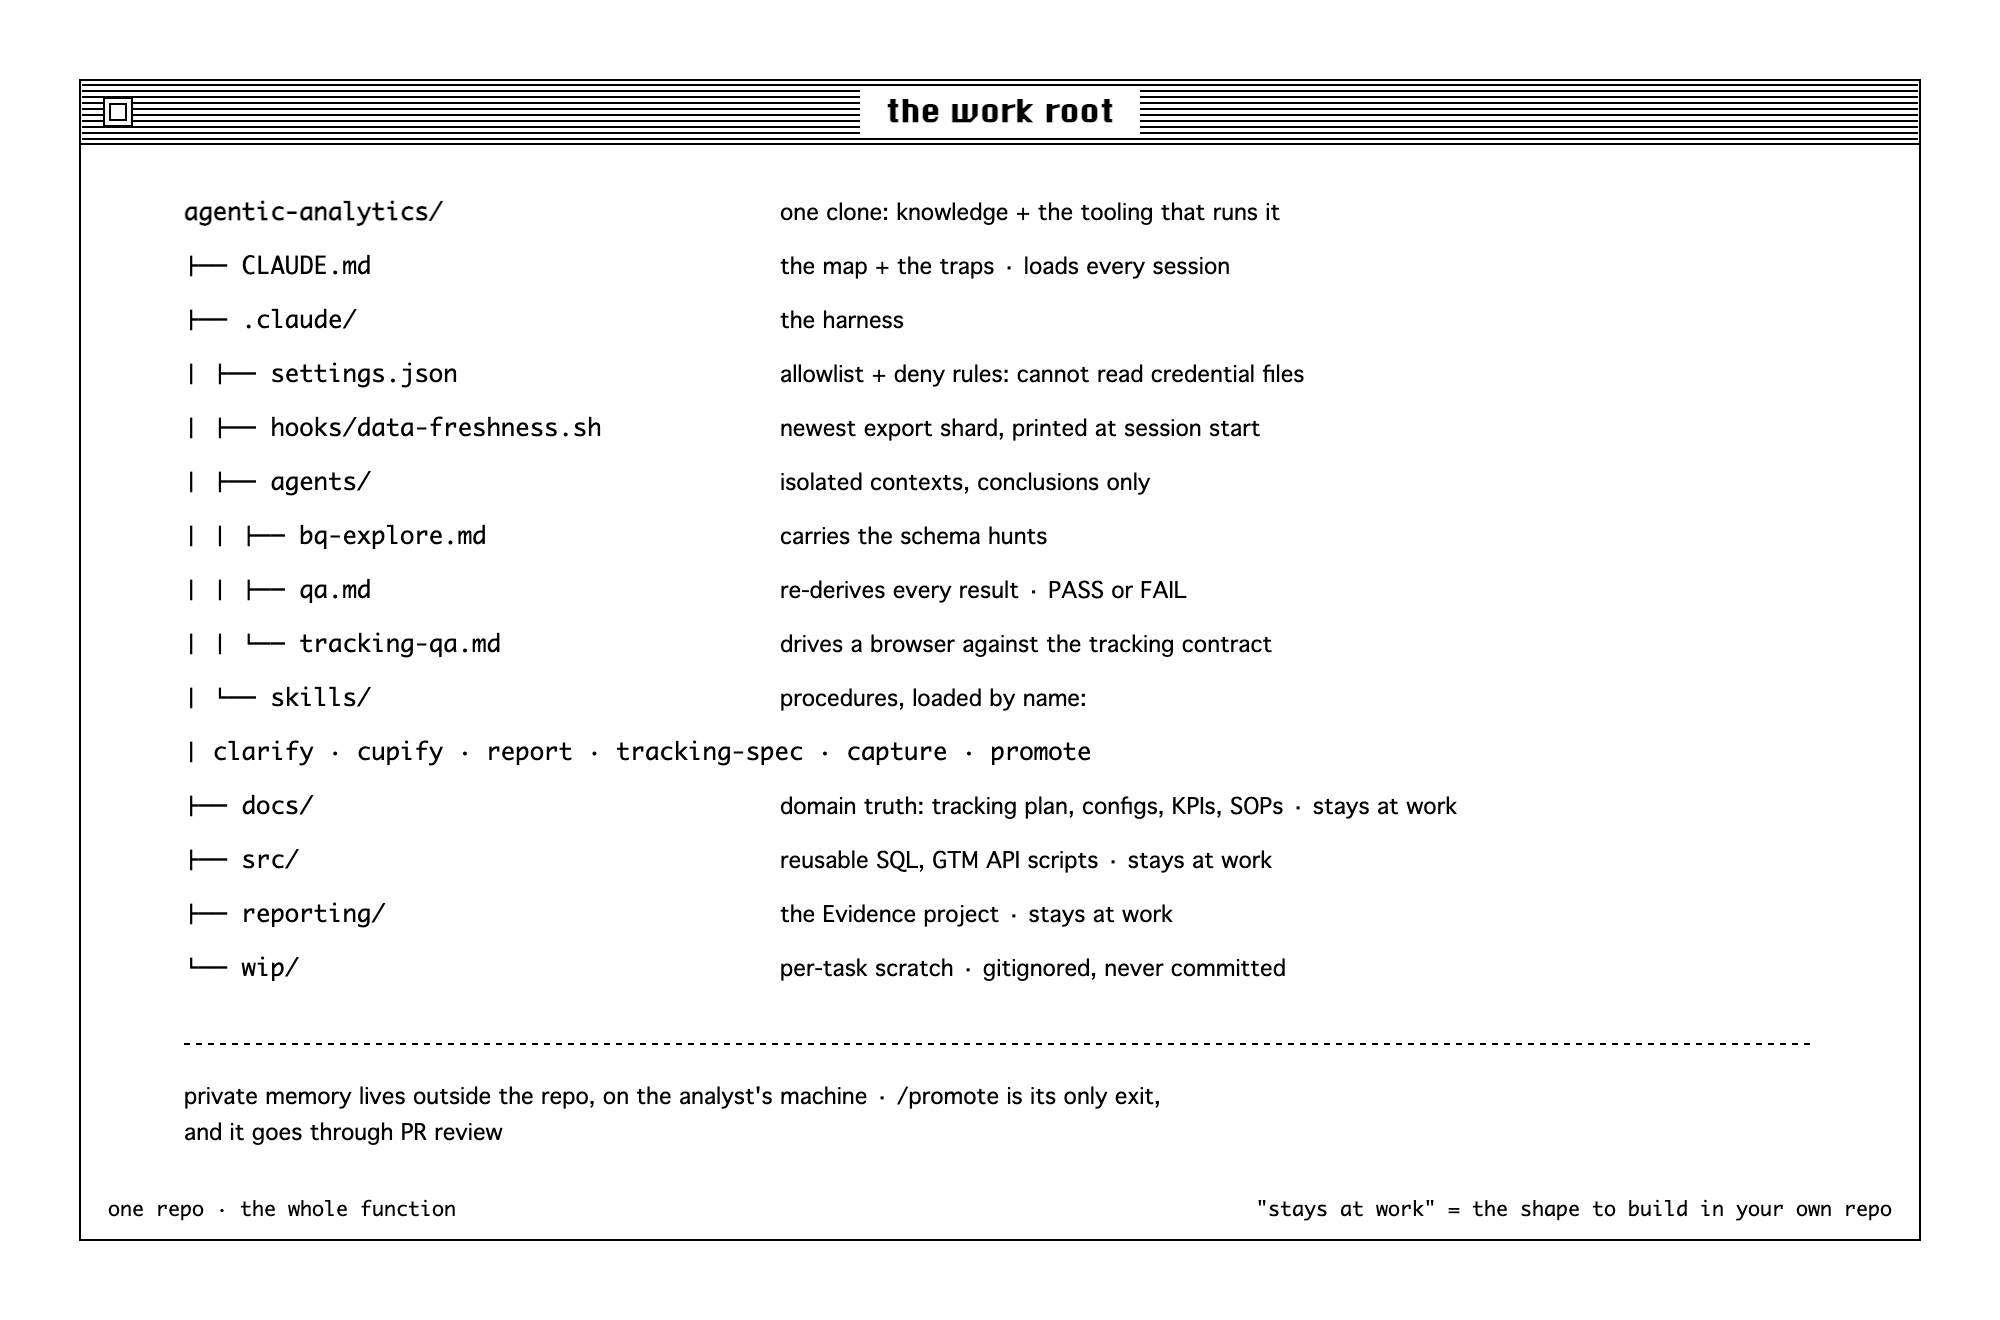
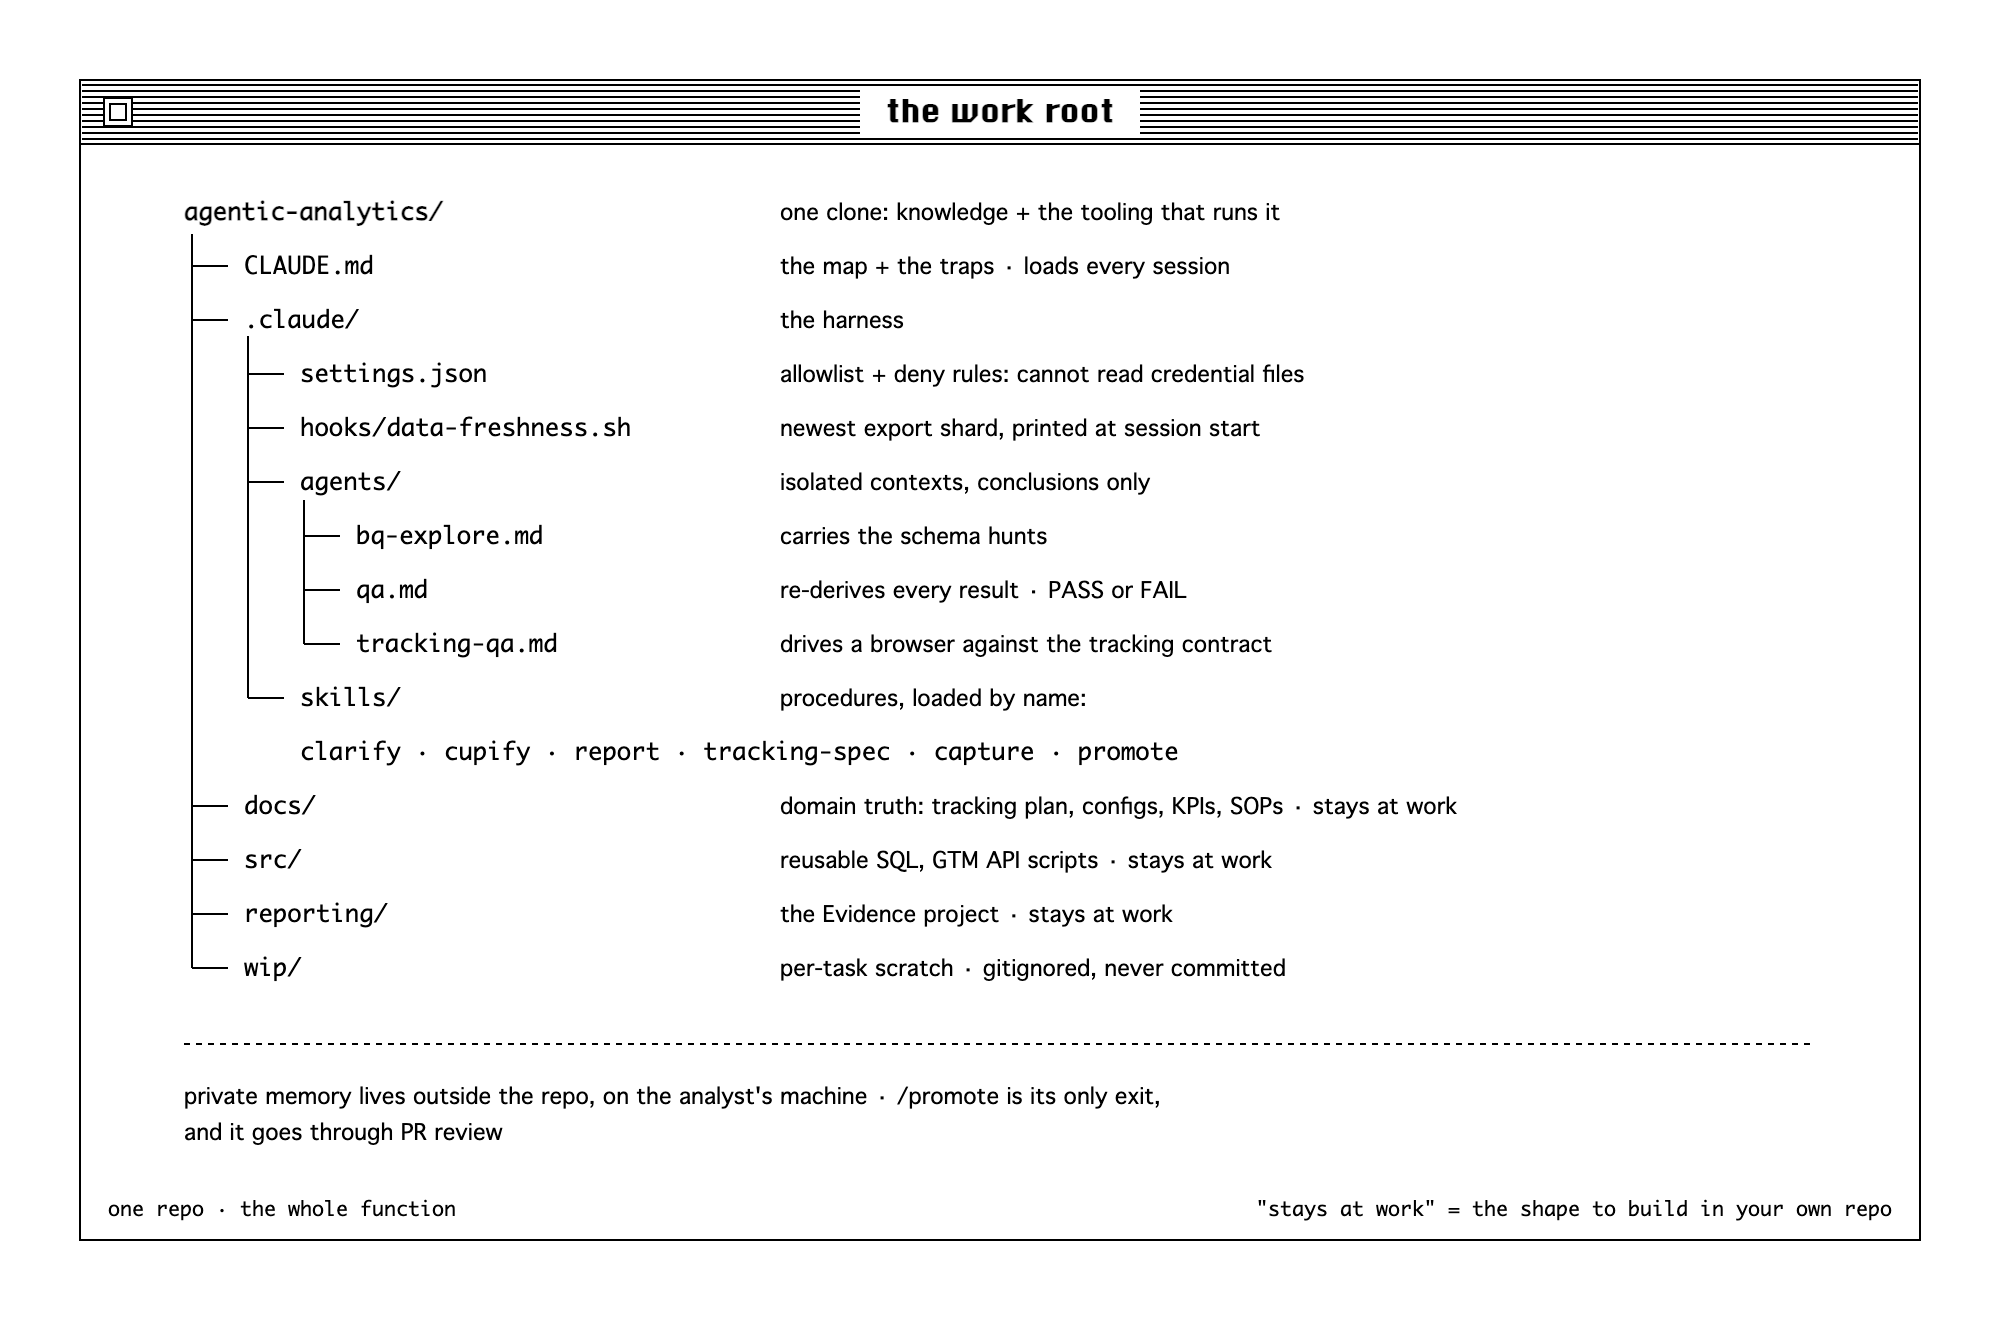
Draw repo-map tree connectors as continuous lines; add harness diagram
The work-root tree was drawn with box-drawing glyphs in 27px-spaced text
rows, so the vertical connectors rendered as gapped fragments. They are
now real SVG lines: one unbroken vertical per branch, corner stubs at
last children, labels unchanged.

New assets/harness.svg+png gives the "model + tools + skills" paragraph
its missing visual: the triad on top, the two harness-enforced rails
(freshness hook, settings.json) as double-bordered bands below. Same
window chrome, fonts and footer conventions as the other four diagrams.
Embedded in README under the rails paragraph.

diff --git a/README.md b/README.md
@@ -76,6 +76,8 @@ so no session assumes data that does not exist yet, and
 [`settings.json`](.claude/settings.json) allowlists a narrow set of routine commands while
 denying `bq rm`/`bq cp` and reads of the credential paths outright.
 
+![The harness: model plus tools plus skills, on two rails the harness enforces itself](assets/harness.png)
+
 ### One repo is the whole system
 
 Knowledge and the tooling that operates on it live in one clone. Open the repo in Claude Code and
